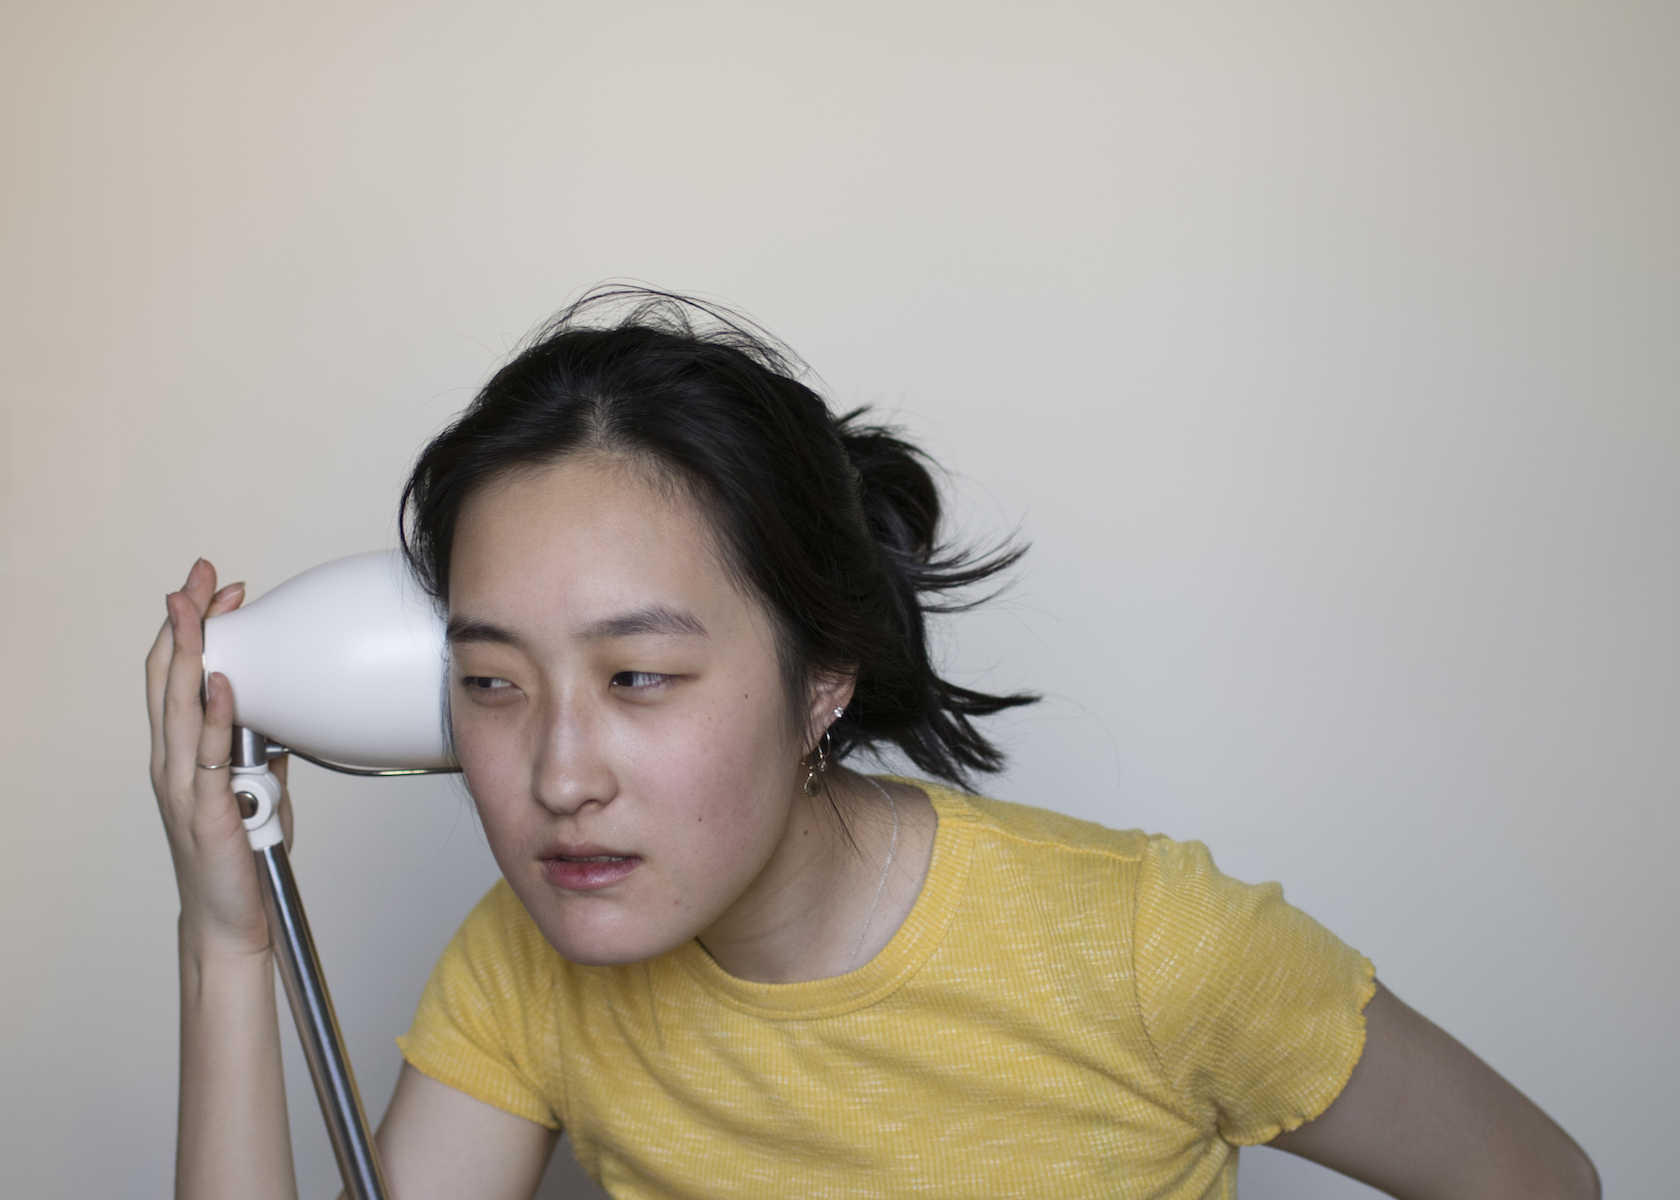
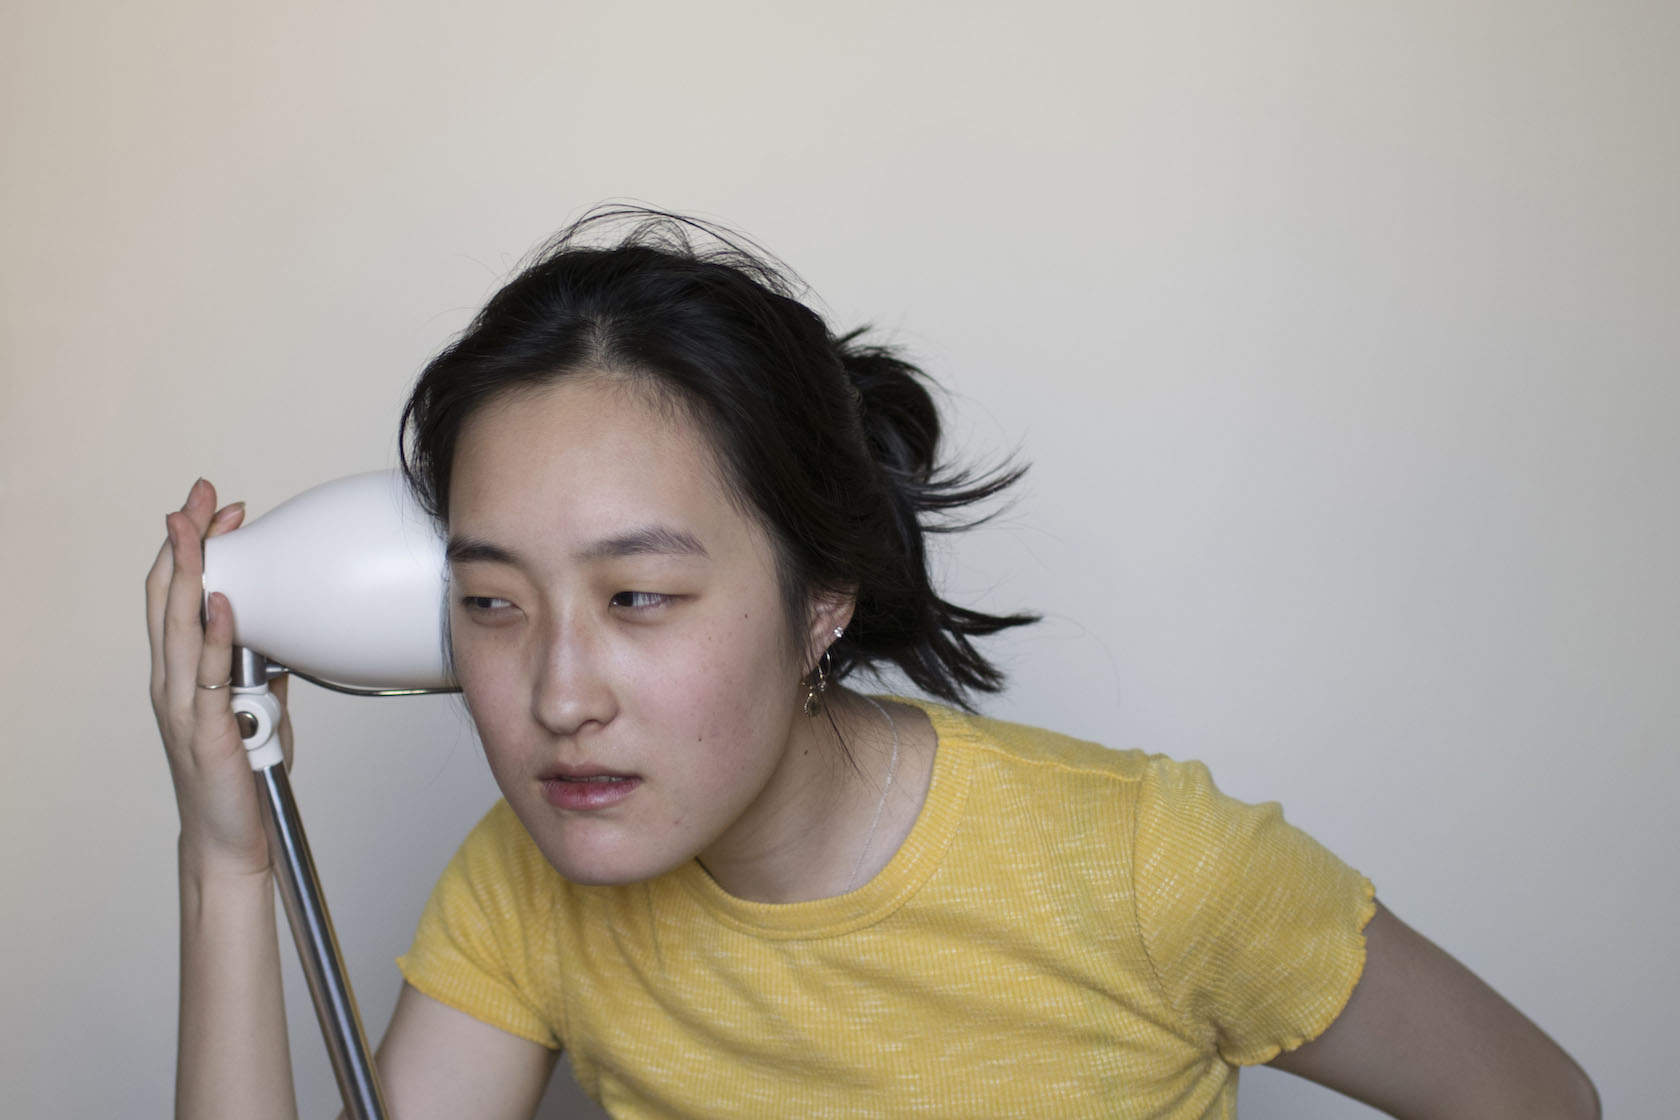
file resize

diff --git a/projects/how-are-you.html b/projects/how-are-you.html
@@ -47,7 +47,7 @@
     </div>
 
     <div class="col-sm-10">
-      <img class="photo" src="../assets/how-are-you/how-are-you.jpg"/>
+      <img class="photo" src="../assets/how-are-you/hay_2.jpg"/>
 
       <div class="row description">
         <div class="col-sm-1"></div>
@@ -69,9 +69,10 @@
         </div>
         <div class="col-sm-1"></div>
     </div>
-      <img class="photo" src="../assets/how-are-you/one.JPG"/>
-      <img class="photo" src="../assets/how-are-you/three.JPG">
-      <img class="photo" src="../assets/how-are-you/four.JPG">
+      <img class="photo" src="../assets/how-are-you/hay_1.jpg"/>
+      <img class="photo" src="../assets/how-are-you/hay_3.jpg">
+      <img class="photo" src="../assets/how-are-you/hay_4.jpg">
+      <img class="photo" src="../assets/how-are-you/hay_5.jpg">
     </div>
 
     <div class="col-sm-1"></div>

diff --git a/projects/advil.html b/projects/advil.html
@@ -73,12 +73,9 @@
           <img class="photo" src="../assets/advil/Try_Yoga.jpg">
         </div>
       </div>
-      <div class="row">
-        <div class="col-sm-3"></div>
-        <div class="col-sm-6">
-          <img class="photo" src="../assets/advil/mockup.gif">
-        </div>
-      </div>
+      <img class="photo" src="../assets/advil/mockups.jpg">
+      <iframe src="https://player.vimeo.com/video/312444082" width="640" height="360" frameborder="0" webkitallowfullscreen mozallowfullscreen allowfullscreen></iframe>
+
     </div>
 
     <div class="col-sm-1"></div>

diff --git a/index.html b/index.html
@@ -56,7 +56,7 @@
 
     <div class="col-sm-1"></div>
     <div class="col-sm-10">
-      <a href="projects/how-are-you.html"><img class="cover" src="assets/how-are-you/how-are-you.jpg"></a>
+      <a href="projects/how-are-you.html"><img class="cover" src="assets/how-are-you/hay_2.jpg"></a>
       <p class="title-des"><span class="titles">How Are You?</span> Book Design, Typography</p>
     </div>
     <div class="col-sm-1"></div>

diff --git a/css/main.css b/css/main.css
@@ -150,6 +150,10 @@ body {
   display: none;
 }
 
+iframe {
+  width: 100%;
+}
+
 .photo {
   width: 100%;
   height: auto;
